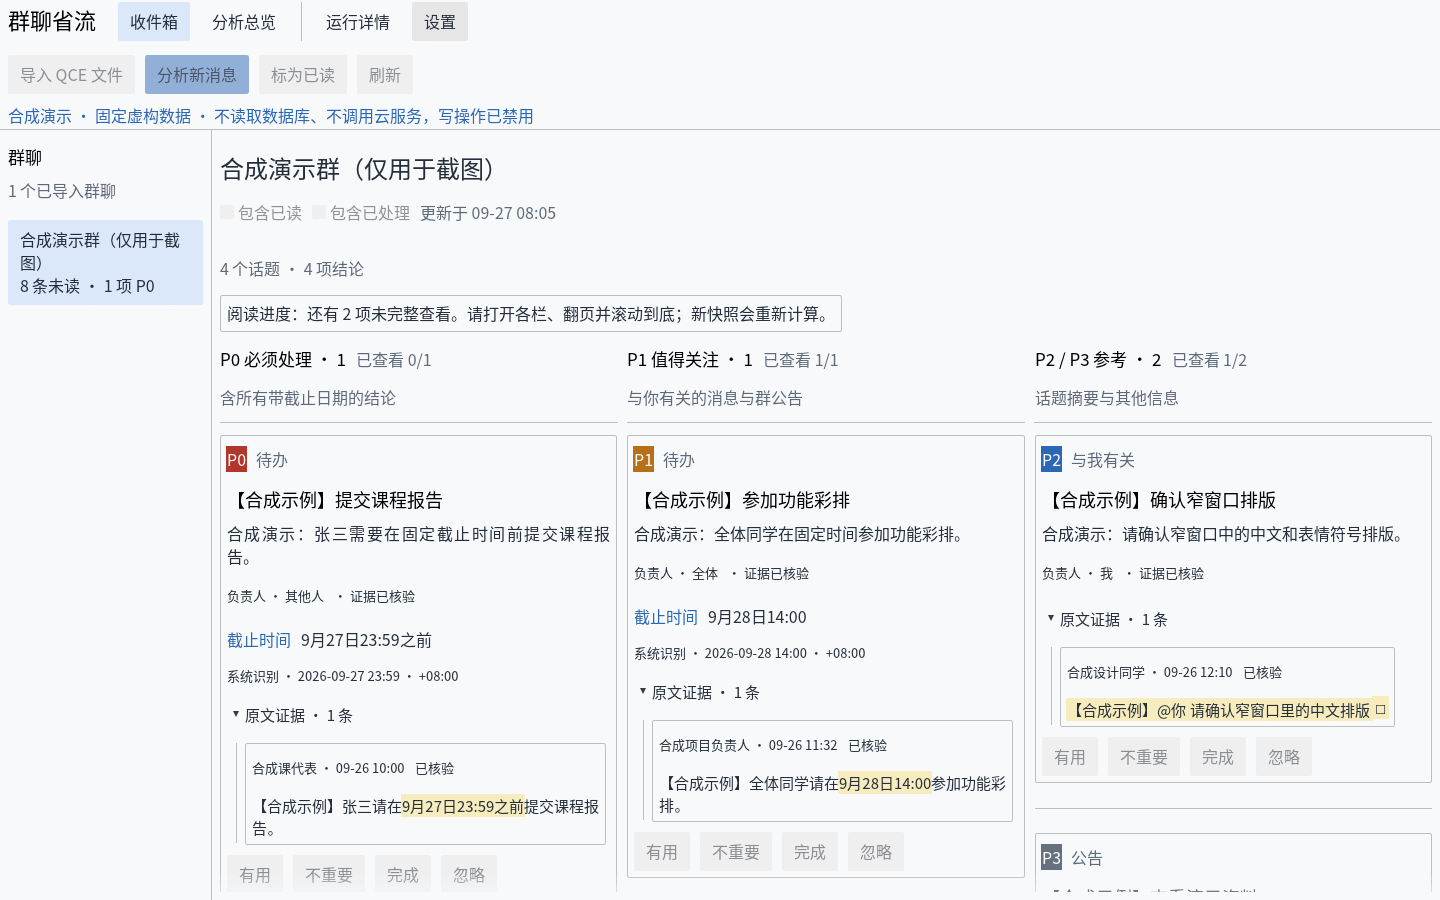
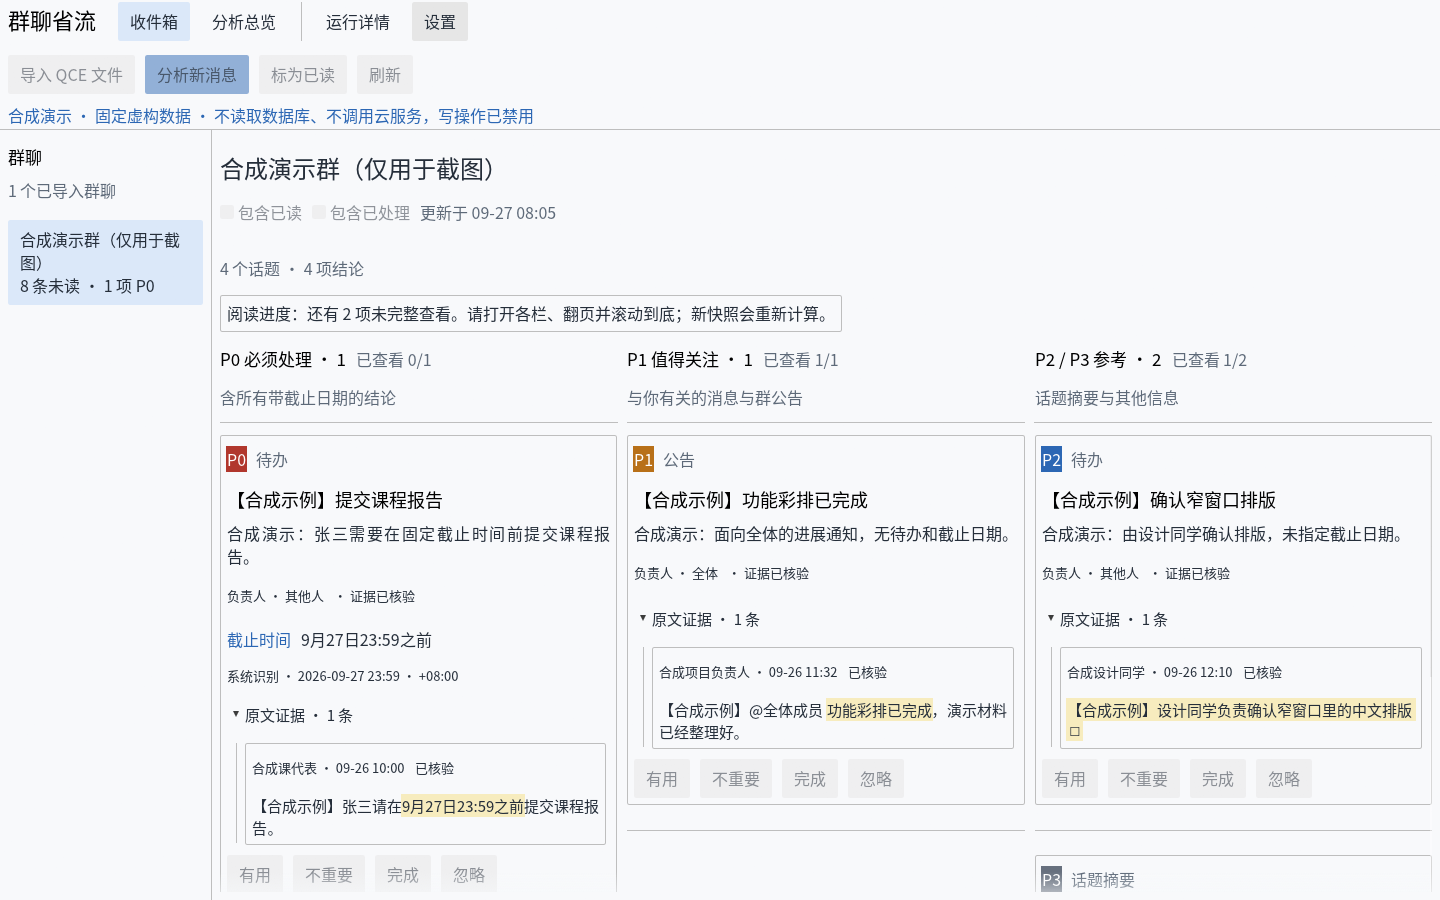
docs(gui): refresh synthetic screenshots and delivery status

diff --git a/README.md b/README.md
@@ -3,8 +3,8 @@
 > Turn unread QQ group chats into a personal, traceable action inbox.
 > 把未读群聊变成可追溯的个人行动收件箱。
 
-**状态 / Status（2026-09-26）**：文件导入、增量分析、话题合并/自动关闭/历史回填、收件箱及六个总览已实现。CLI 新增更正/取消/冲突关联与待回应查询；eval 支持 Ours/B0、话题切分和概率校准。真实云调用记录见 [ACCEPTANCE](docs/ACCEPTANCE.md)，真实质量评分与 Jev 校准曲线仍为**待标注**。CLI/Docker 发布见 [RELEASING](docs/RELEASING.md)，分工见 [TEAM_ASSIGNMENTS](docs/TEAM_ASSIGNMENTS.md)。
-*The CLI supports import, incremental analysis, topic lifecycle, inbox/overview and evidence-backed changes and question states. Ours/B0 scoring, partition metrics and calibration tools are available. Real-data quality and Jev calibration await independent human labels. CLI/Docker packaging is documented in the release guide; GUI packaging comes later.*
+**状态 / Status（2026-09-27）**：文件导入、增量分析、话题合并/自动关闭/历史回填、收件箱及六个总览已实现。CLI 新增更正/取消/冲突关联与待回应查询；eval 支持 Ours/B0、话题切分和概率校准。真实云调用记录见 [ACCEPTANCE](docs/ACCEPTANCE.md)，真实质量评分与 Jev 校准曲线仍为**待标注**。CLI/Windows GUI/Docker 发布见 [RELEASING](docs/RELEASING.md)，分工见 [TEAM_ASSIGNMENTS](docs/TEAM_ASSIGNMENTS.md)。
+*The CLI supports import, incremental analysis, topic lifecycle, inbox/overview and evidence-backed changes and question states. Ours/B0 scoring, partition metrics and calibration tools are available. Real-data quality and Jev calibration await independent human labels. CI packages the CLI, Windows GUI and Docker image; the GUI bundle will ship with the next tagged release.*
 
 [![CI](https://github.com/Develata/chat-tldr/actions/workflows/ci.yml/badge.svg?branch=main)](https://github.com/Develata/chat-tldr/actions/workflows/ci.yml)
 
@@ -42,9 +42,9 @@
 - 只读 `stats`、`decisions --run`、`jev-log --run`：查询累计用量或历史运行，重放决策与带归属的模型回答
 - 更正/取消/冲突与完整/部分回答：独立关系表及只读 `relations`，两端引用重验，不自动更改用户 done/dismissed，见 [ADR-0010](docs/decisions/0010-semantic-relations.md)
 - eval 的 `check-stream`、`export-sheet`、`import-sheet`、`score`、`calibrate`：Ours/B0、最优话题匹配/ARI/NMI、ECE/Brier 和 SVG；缺标注不造分数
-- 极简非 root scratch [Docker 镜像](docs/DOCKER.md)；push 模拟 CLI/Docker 发布，正式 tag 才公开 Release 与推送 GHCR
+- 极简非 root scratch [Docker 镜像](docs/DOCKER.md)；push 模拟 CLI/Windows GUI/Docker 发布，正式 tag 才公开 Release 与推送 GHCR
 
-尚未实现 B1/sim-*、embedding、burst/边界与人工支持率指标、`agreement/summarize` 和 GUI 正式打包。当前策略为 `--strategy ours|b0`，不代表 [PIPELINE](docs/PIPELINE.md) 的全部策略已经完成。QCE 管理组件仅有接入说明；JSON 适配器可独立使用。
+尚未实现 B1/sim-*、embedding、burst/边界与人工支持率指标、`agreement/summarize`。Windows GUI 打包已接入模拟发布，正式下载随下一次 tag 提供。当前策略为 `--strategy ours|b0`，不代表 [PIPELINE](docs/PIPELINE.md) 的全部策略已经完成。QCE 管理组件仅有接入说明；JSON 适配器可独立使用。
 
 ### 已验证到哪里
 
@@ -52,10 +52,10 @@
 |---|---|---|
 | 主线逻辑与协议 | Rust 回归、fmt、严格 clippy；当前证据集中在 ACCEPTANCE | 真实准确率；费用是配置费率估算，非账单 |
 | 输入兼容 | 一个 200 条真实 QCE 单文件通过 51 项离线检查；另有 100 条主样本 + 4 条回填合成样本 | 未出现的真实导出形态、JSON 卡片正文、附件内容 |
-| GUI | Windows 原生收件箱截图与交互回归；新增总览通过 reducer/egui 交互测试 | 新总览截图、真实聊天云分析的完整交互、Linux/macOS 原生窗口 |
+| GUI | 收件箱/总览合成截图、交互回归、Linux 原生 smoke、Windows release 测试与解包验证 | 真实聊天云分析的完整交互、macOS 原生窗口及各平台 GPU/缩放覆盖 |
 | 评估 | 标注往返、Ours/B0 合成流程、话题匹配和校准手算回归 | 独立人工 gold、真实质量比较和真实 Jev 校准曲线 |
 
-CI 按模块并行，覆盖 Windows 六模块、Linux CLI/eval、macOS CLI/GUI/eval，保留 `fmt`、`clippy`、`test` 必需检查名称。Actions 使用 Node.js 24、Linux 使用 Ubuntu 26.04；版本固定完整 SHA，由每周 Dependabot 更新 PR 跟进。运行结果见上方 CI，维护规则见 [CONTRIBUTING](CONTRIBUTING.md#ci-依赖维护)，验收细节见 [ACCEPTANCE](docs/ACCEPTANCE.md) 与 [REVIEW_FIXES](docs/REVIEW_FIXES.md)。
+CI 按模块并行，覆盖 Windows 六模块、Linux CLI/eval 与 GUI 原生 smoke、macOS CLI/GUI/eval，保留 `fmt`、`clippy`、`test` 必需检查名称；GUI smoke 失败或跳过也不能通过 `test`。Actions 使用 Node.js 24、Linux 使用 Ubuntu 26.04；版本固定完整 SHA。GUI 发布验收及平台边界见 [RELEASING](docs/RELEASING.md#gui-自动化验收)，运行结果见上方 CI。
 
 ### 现在就能运行（无需密钥）
 
@@ -195,10 +195,10 @@ LLM 的 `base_url`、模型名和接口格式（`openai` / `anthropic`）在 `co
 | @Develata | 已确认产品规则与接口方向 | 架构/代码审核、真实结果复核、交付取舍 |
 | Codex | 主线代码、六个总览、合成回归材料及 CI 已实现 | 剩余分析语义、集成修复和文档维护 |
 | A：QCE 管理 | 仓库仅有接入说明，尚无管理程序 | 复用已验证导出流程，交付组件管理与完整 JSON 路径 |
-| B：GUI 设计 | 主线 GUI 已由 Codex 实现，未见独立设计交付 | 现有界面与六个总览的设计复核、线框图和交互说明 |
+| B：GUI 设计 | @liguilong256 的 PR #7 已交付界面整理、运行详情与七张合成截图 | Codex 接续修复 review 问题并补自动 smoke/发布测试，B 继续体验复核 |
 | C：验收材料 | 共用合成样本/评估工具已提供，未见独立标注或报告 | 人工期望与 gold、演示步骤、验收报告 |
 
-A/B/C 尚未绑定真实账号，表中状态依据当前仓库；线下进度待本人确认。具体交付和目录边界以 [TEAM_ASSIGNMENTS](docs/TEAM_ASSIGNMENTS.md) 为准。实际交付截止为 **2026-09-27 23:59，America/Santiago（UTC−3）**。
+A/C 尚未绑定账号，线下进度待本人确认；B 的交付以 PR #7 为据。具体交付和目录边界以 [TEAM_ASSIGNMENTS](docs/TEAM_ASSIGNMENTS.md) 为准。实际交付截止为 **2026-09-27 23:59，America/Santiago（UTC−3）**。
 
 ---
 

diff --git a/docs/TEAM_ASSIGNMENTS.md b/docs/TEAM_ASSIGNMENTS.md
@@ -1,6 +1,6 @@
 # 当前分工与协作接口
 
-> 2026-09-26 更新。本文替代早期“同学 A 实现适配器 / B 实现整个 GUI / C 实现整个评估器”的分工。A/B/C 是任务席位，尚未绑定真实姓名或 GitHub 账号。
+> 2026-09-27 更新。本文替代早期“同学 A 实现适配器 / B 实现整个 GUI / C 实现整个评估器”的分工。B 的本次交付对应 PR #7（@liguilong256）；A/C 尚未绑定账号。
 > 最终期限：**2026-09-27 23:59，America/Santiago（UTC−3）**。聊天时间的默认 `+08:00` 与交付时区相互独立。
 
 ## 当前状态（以仓库交付为准）
@@ -12,10 +12,10 @@
 | Develata | 已确认 CLI/目录边界、不脱敏、截止事项 P0、Closed 回填保持关闭等决定 | 继续审核实现与真实分析结果，决定剩余功能和最终交付范围 |
 | Codex | 主线代码、B0/Jev 控制器、关系查询与评估工具；首版 CLI/Docker 发布验收 | 修复复核中发现的问题；收到独立人工 gold 后运行真实质量评分和校准，协助交付报告 |
 | A：QCE 管理 | 已可参考主线的 QCE Docker 导出记录；`apps/qce-manager/` 只有 README | **待交付组件**：获取/启动/导出封装和受控清理，交付完整 JSON 路径 |
-| B：GUI 设计 | Codex 已实现原生 GUI；`docs/ui/` 目前只有交付说明 | **待设计复核**：围绕现有收件箱和六个总览交图稿与交互说明；不重复承担整个 GUI 编码 |
+| B：GUI 设计 | PR #7 已交付 GUI 界面整理、结构化运行详情、合成演示及七张截图 | Codex 接续修复 review 问题、补自动 smoke 和 Windows GUI 发布验收；后续按实际体验反馈继续复核 |
 | C：验收材料 | 已提供共用合成样本、评分/校准工具及真实 200 条未标注 CSV | **首要任务**：人工标注 200 条、50 条双人复核；再交合成 gold、演示与局限性报告 |
 
-截至本次更新，尚未收到三位同学的账号绑定或可核验的独立交付记录；这里不推断他们的线下进度。共用样本和工具由 Codex 补齐，不记作同学完成的标注/设计工作。
+截至本次更新，B 的独立交付见 PR #7；A/C 的线下进度仍未核验。共用样本和评估工具由 Codex 补齐，不记作同学完成的人工标注。
 
 ## 1. 谁负责什么
 
@@ -75,8 +75,8 @@
 | 共用基础 | 已实现 | 六成员 workspace、core/JSONL、SQLite、配置、QCE 导入/查询、合成 fixtures 与模块并行 CI |
 | 分析闭环 | 已实现 `ours/b0` 与关系查询 | Jev 在合法候选中选择，故障规则回退；用户处理状态不由关系模型改写 |
 | 话题与总览 | 已实现并有回归 | 合并、自动关闭、保持 Closed 的历史回填；热门/优先/相关/截止/未读/资料六视图 |
-| 桌面与离线评估 | 已实现部分交付 | GUI/HTML、历史、标注往返、Ours/B0 与校准；新截图、GUI 打包和剩余评估待补 |
-| CLI/Docker 发布 | `v0.1.0` 已发布并验证下载/拉取 | GUI 正式打包后续补齐；发布记录见 ACCEPTANCE |
+| 桌面与离线评估 | 已实现部分交付 | GUI/HTML、历史、标注往返、Ours/B0 与校准；B 已交新截图，真实质量仍待人工标注 |
+| CLI/GUI/Docker 发布 | `v0.1.0` 的 CLI/Docker 已发布；新增 Windows GUI 打包与自动验收 | GUI 归档在下一次正式版本发布，历史版本不替换；发布记录见 ACCEPTANCE |
 | 真实效果与外围组件 | 真实云调用完成，人工质量待验收 | 待独立人工标注/报告、QCE 管理程序及同学设计稿 |
 
 Codex 当前主线为发布后复核、必要缺陷修复和协助完成人工标注后的评估；冻结新功能，embedding 与剩余评估范围见 [ROADMAP](ROADMAP.md)。Develata 复核结果，同学 A/B/C 按上面具体产物接入。

diff --git a/docs/RELEASING.md b/docs/RELEASING.md
@@ -1,15 +1,30 @@
-# CLI 与 Docker 发布
+# CLI、Windows GUI 与 Docker 发布
 
-`.github/workflows/release.yml` 在每次分支 push、PR 和手动运行时模拟发布：并发构建 Windows x86_64 CLI、Linux x86_64 musl CLI 和 scratch Docker 镜像。模拟只上传短期 Actions artifacts，不创建 Release、不推 GHCR、不创建 tag。GUI 打包后续补齐。
+`.github/workflows/release.yml` 在每次分支 push、PR 和手动运行时模拟发布：并发构建 Windows x86_64 CLI/GUI、Linux x86_64 musl CLI 和 scratch Docker 镜像。模拟只上传短期 Actions artifacts，不创建 Release、不推 GHCR、不创建 tag。GUI 归档从下一次正式版本开始提供，不追补或替换已发布的 `v0.1.0` 产物。
 
 ## 发布产物
 
 - `chat-tldr-<VERSION>-windows-x86_64.zip`，包含 `chat-tldr.exe`。
+- `chat-tldr-gui-<VERSION>-windows-x86_64.zip`，包含同目录的 `chat-tldr-gui.exe` 和 `chat-tldr.exe`，以及 GUI 使用说明和内嵌中文字体的 OFL 许可证。
 - `chat-tldr-<VERSION>-linux-x86_64-musl.tar.gz`，包含静态 `chat-tldr`。
 - `docker-image.tar`，为已验证镜像的离线副本。
 - 每个归档的 SHA-256 文件及正式发布的 `SHA256SUMS`。
 
 CLI 归档还含许可证、README、示例配置和 Docker/发布说明。发布程序以显式白名单打包，拒绝覆盖已有归档。构建不需要真实聊天或模型密钥；最终二进制和最终镜像都经过本地假服务验收。
+
+## GUI 自动化验收
+
+- 必需检查 `test` 包含独立并发的 `GUI smoke (Linux)`：Xvfb/Mesa 打开真实 GUI 窗口，覆盖收件箱、证据、决策、统计、总览、窄窗口和深色；另外通过同目录 CLI 导入合成消息，验证 GUI 自动握手与收件箱查询。缺失 CLI 的负例必须明确报错。
+- Windows 发布任务运行 `cargo test --release -p chat-tldr-gui`，验证优化构建中的协议、失败传播与 egui 指针交互；生成 ZIP 后，校验 SHA-256 和文件白名单，解压到独立目录检查两份 EXE 的版本和 CLI 导入/查询。
+- `gui-native-smoke` artifact 保存原生截图、状态回执和二进制哈希；`gui-release-test` 保存 Windows 解包验证记录。目录必须全新，缺失回执、截图损坏、超时或错误状态都会失败。
+
+Windows runner 的解包检查使用 `--package-only`，明确不代表原生窗口渲染；Linux 原生 smoke 也不代替 Windows/macOS GPU、缩放、系统文件选择器或真实云质量验收。Windows 有可用图形桌面时，可以去掉 `--package-only` 对解包后的 release EXE 跑相同原生 smoke。
+
+```powershell
+cargo build --release --locked -p chat-tldr -p chat-tldr-gui
+python scripts/release/package.py --binary target/release/chat-tldr.exe --gui-binary target/release/chat-tldr-gui.exe --target windows-x86_64 --version 0.1.0
+python scripts/release/gui_smoke.py --archive dist/chat-tldr-gui-0.1.0-windows-x86_64.zip --version 0.1.0 --out tmp/gui-release-native
+```
 
 ## 正式 tag
 

diff --git a/apps/gui/README.md b/apps/gui/README.md
@@ -1,6 +1,6 @@
 # 原生 GUI 使用说明
 
-GUI 通过 CLI 子进程接入主线功能，已提供个人收件箱与六个分析总览。Windows 收件箱原生截图、合成 QCE 导入后的 CLI→GUI 查询联调、egui 指针交互测试已通过；新增总览有完整流/指针交互回归，尚未补原生截图。真实聊天与云模型质量尚未验收。范围与证据见 [GUI 验证记录](../../docs/GUI_VERIFICATION.md) 和 [后续回归](../../docs/REVIEW_FIXES.md)。
+GUI 通过 CLI 子进程接入主线功能，已提供个人收件箱与六个分析总览。同学 B 补充了界面整理、运行详情和 [合成截图](../../docs/ui/README.md)。自动化覆盖原生窗口 smoke、CLI 联调、错误传播、统计刷新及 release 构建/解包；平台边界见 [发布说明](../../docs/RELEASING.md#gui-自动化验收)。真实聊天与云模型质量尚未验收。
 
 在仓库根目录的 PowerShell 中运行：
 
@@ -15,6 +15,10 @@ cargo build --workspace
 - `--data-dir <DIR>`：与 CLI 共用的数据目录；Windows 默认 `%APPDATA%\chat-tldr`。
 - `--config <FILE>`：指定业务配置；省略时使用数据目录内 `config.toml`。
 - `--dark`：使用深色外观。
+
+Windows GUI 发布包须完整解压，保留两份 EXE 的同目录关系。自动截图可使用隐藏的 `--screenshot <PNG> --quit-after-capture`；CI 额外传 `--smoke-report <JSON>` 保存状态回执，只有截图成功写入后才发布回执。该模式不会自动导入或分析，测试脚本只准备独立临时目录和合成数据。
+
+分析失败或部分完成后的自动刷新保留错误提示，直到主动重试分析/导入或关闭提示。运行详情分别显示“最近查询结果”和“最近一次分析”，累计统计不会被上一次运行遮住。
 
 使用真实导出前，先通过 CLI 准备配置和自己的 QQ 身份：
 

diff --git a/docs/ui/feedback.md b/docs/ui/feedback.md
@@ -15,13 +15,15 @@
 已优先处理 P0 与主要 P1：
 
 - 1/2/3：导入文案、选择器与 CLI 忙碌态分离；阅读进度按栏统计，按钮禁用原因和页码范围可见，分页滚动区使用栏/页独立 ID。
-- 4：错误条增加“操作未完成”标题、“检查设置”和关闭动作；部分失败保留 CLI 的具体结果，并在下一次命令开始时清理旧错误。
+- 4：错误条增加“操作未完成”标题、“检查设置”和关闭动作；部分失败保留 CLI 的具体结果，自动刷新群列表/收件箱不清理错误，主动重试分析/导入或关闭提示后清理。
 - 5/6/7/8：窄窗口改用群组选择器；一级导航、主操作、运行详情分层；卡片与证据使用容器；中文日期、数量和状态文案统一。
 - 9：`noto-sc` 置于比例与等宽字体族首位。
 - 10/11：空状态、证据核验/引用、高亮和证据折叠状态分别说明原因；高亮按 Unicode 标量边界处理。
 - 12/13/14/15：新增结构化运行统计、决策日志和分析总览，补齐 KPI、方法/概率、页签计数、负责人、截止状态和引用入口。
 
 这些结果已用固定 `--demo` 合成数据跑通 GUI 单元测试，并在本目录的五张主截图与窄窗口截图中复核。P2 的即时写操作回执和设置路径向导仍留作后续工作。
+
+PR #7 后续复核修正了错误提示被自动刷新清掉、累计统计被旧运行遮住和演示优先级三处回归。P1 示例采用无截止日期的进展通知，P2 为他人负责且无截止日期的待办，P3 为闲聊摘要；带截止时间的报告仍为 P0。截图由修正后的合成数据重新生成。
 
 ## P0
 

diff --git a/docs/tasks/task-B-gui.md b/docs/tasks/task-B-gui.md
@@ -3,7 +3,7 @@
 > 原任务 B 的实现规格与验收目标，保留作主线参考，不是要求同学重新实现整个 GUI。下方验收清单不作为实时完成台账。
 > 当前安排：Codex 负责主线实现与 CLI 接入，同学先协助 GUI 设计，具体实现范围按任务分派。审核：@Develata。
 
-**当前状态（2026-09-26）**：原生收件箱、证据/状态操作、历史查询和六个分析总览已实现；Windows 收件箱有原生截图，GUI 当前 36 项测试通过。新总览截图、真实云分析的界面验收和同学独立设计稿仍待完成。实际使用见 [apps/gui/README](../../apps/gui/README.md)，同学 B 从 [docs/ui](../ui/README.md) 的设计复核开始；状态以 [TEAM_ASSIGNMENTS](../TEAM_ASSIGNMENTS.md) 为准。
+**当前状态（2026-09-27）**：原生收件箱、证据/状态操作、历史查询和六个分析总览已实现；同学 B 的 PR #7 补充了界面整理、运行详情和七张合成截图。Codex 接续修复 review 问题并加入原生 smoke、Windows release 测试和解包验证，范围见 [RELEASING](../RELEASING.md#gui-自动化验收)。真实云分析的完整界面验收仍待完成；状态以 [TEAM_ASSIGNMENTS](../TEAM_ASSIGNMENTS.md) 为准。
 
 设计稿放 `docs/ui/`，正式程序资源放 `apps/gui/assets/`，运行中的界面偏好放 `<data-dir>/gui-state.json`；完整归属见 [FILE_LAYOUT.md](../FILE_LAYOUT.md)。
 
